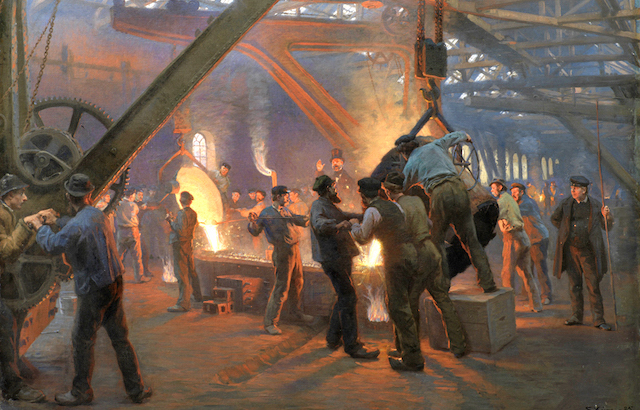
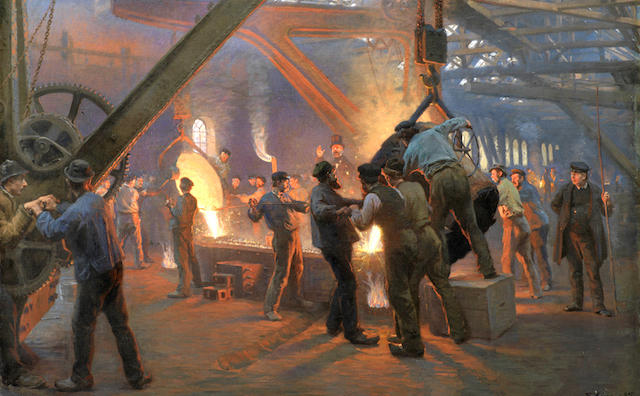
miniature images and illutron crew images optimized

diff --git a/index.html b/index.html
@@ -639,21 +639,10 @@
 </svg>
 
 </header>
-<nav id="project-miniatures" class="miniatures hidden"><!-- before website is loaded everything besides the header is hidden -->
-  <!--
-    CHANGE_ME: put your project miniatures here, they should follow golden ratio proportions:
-      * a tag
-      * needs class="miniature"
-      * the href attribute should be unique, and shared with the project id attribute below,
-        here it starts with # (remember that very limited set of characters is allowed in anchors)
-      * it will keep golden ratio proportions, what's inside is up to you.
-      * if you want a background image, use data-flickity-bg-lazyload
-      * I recommend 640x396 as image size
-      * if you use h2, it will automatically stick to the bottom of the miniature
-   -->
+<nav id="project-miniatures" class="miniatures hidden">
   <a class="miniature"
      href="#the-experience"
-     data-flickity-bg-lazyload="images/miniatures/divingSuit2-miniature.png">
+     data-flickity-bg-lazyload="images/miniatures/divingSuit2-miniature.jpg">
     <h2>The Experience</h2>
   </a>
   <a class="miniature"
@@ -746,7 +735,7 @@
   </article>
   <article id="the-crew">
     <div class="media">
-      <img class="medium" src="images/crew/illutroncrew.png" loading="lazy" />
+      <img class="medium" src="images/crew/illutroncrew.jpg" loading="lazy" />
     </div>
     <div class="description">
       <h2 class="heading-color">The Crew</h2>
